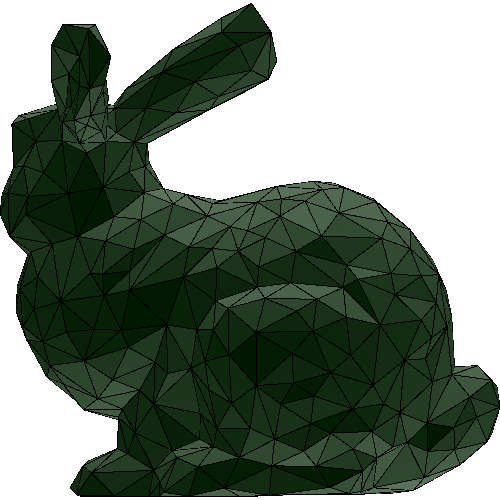
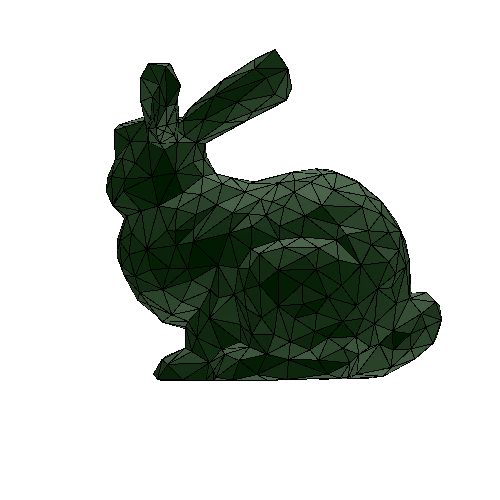
rescale object so it doesn't touch the facets of [-1, +1]^3 cube

diff --git a/Assignment_5/src/main.cpp b/Assignment_5/src/main.cpp
@@ -71,13 +71,20 @@ void setup_scene() {
 
 	//Refit the mesh into [-1, +1]^3
 	if (refit_mesh) {
-		Matrix<double, 1, 3>
-			min_coord = vertices.colwise().minCoeff(),
-			max_coord = vertices.colwise().maxCoeff(),
-			mid_coord = (min_coord + max_coord) / 2;
-		double resize_length = (max_coord - min_coord).maxCoeff();
-		vertices.rowwise() -= mid_coord;  // centering
-		vertices /= resize_length / 2;  // rescaling
+		Vector3d center(0, 0, 0);
+		for (size_t i = 0; i < nf; ++i) {
+			Vector3d triangle_center(0, 0, 0);
+			for (size_t k = 0; k < 3; ++k)
+				triangle_center += vertices.row(facets(i, k)).transpose();
+			triangle_center /= 3;
+			center += triangle_center;
+		}
+		center /= nf;
+		vertices.rowwise() -= center.transpose();  // centering
+		double rad = 0;
+		for (size_t i = 0; i < nv; ++i)
+			rad = std::max(rad, vertices.row(i).norm());
+		vertices /= rad;  // rescaling
 	}
 
     //Lights
